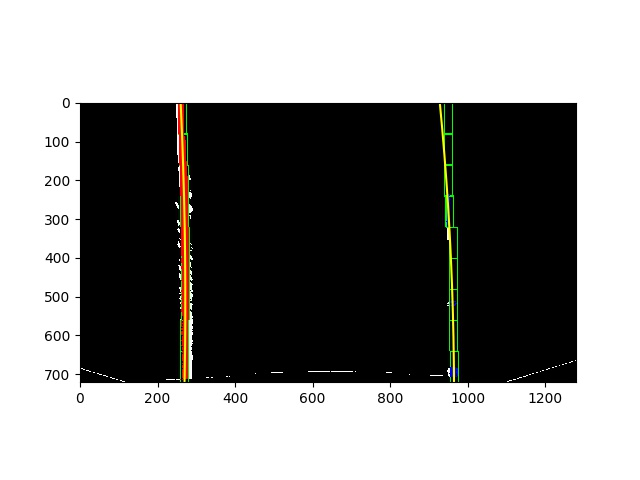
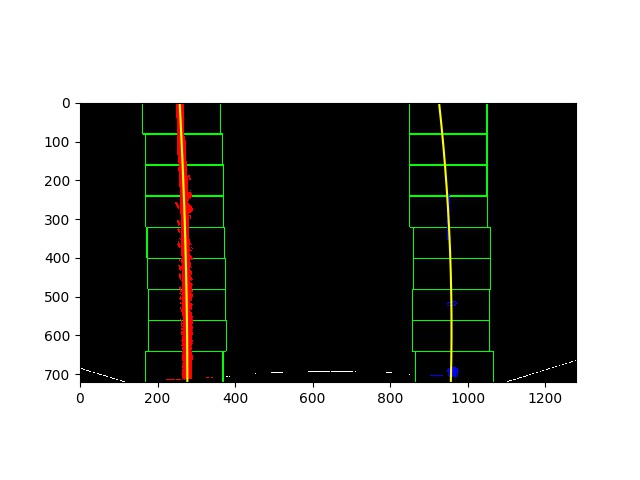
Corrected window margin to 100

Changed region(s): [[0.2188, 0.2188, 0.375, 0.8125], [0.625, 0.2188, 0.7812, 0.8125]]

diff --git a/lanepixelfinding.py b/lanepixelfinding.py
@@ -11,7 +11,7 @@ class Lanepixelfinding(object):
     def __init__(self):
         self.left_fit = self.right_fit = None
 
-    def find_lane_pixels(self, binary_warped, nwindows=9, minpix=50, output_folder=False):
+    def find_lane_pixels(self, binary_warped, margin=100, nwindows=9, minpix=50, output_folder=False):
         plt.imshow(binary_warped)
 
         # Create an output image to draw on and  visualize the result
@@ -25,7 +25,7 @@ class Lanepixelfinding(object):
         nonzerox = np.array(nonzero[1])
 
         left_lane_inds, right_lane_inds = \
-            self.__get_lane_inds(binary_warped, nonzerox, nonzeroy, nwindows, minpix, out_img)
+            self.__get_lane_inds(binary_warped, nonzerox, nonzeroy, margin, nwindows, minpix, out_img)
 
         # Extract left and right line pixel positions
         leftx = nonzerox[left_lane_inds]
@@ -46,27 +46,7 @@ class Lanepixelfinding(object):
 
         return left_fit, right_fit
 
-    def __plot_and_save(self, binary_warped, left_fit, right_fit, out_img, nonzerox, nonzeroy,
-                      left_lane_inds, right_lane_inds, output_folder=None):
-        # Generate x and y values for plotting
-        ploty = np.linspace(0, binary_warped.shape[0]-1, binary_warped.shape[0] )
-        left_fitx = left_fit[0]*ploty**2 + left_fit[1]*ploty + left_fit[2]
-        right_fitx = right_fit[0]*ploty**2 + right_fit[1]*ploty + right_fit[2]
-
-        BLUE = [0, 0, 255]
-        RED = [255, 0, 0]
-        out_img[nonzeroy[left_lane_inds], nonzerox[left_lane_inds]] = RED
-        out_img[nonzeroy[right_lane_inds], nonzerox[right_lane_inds]] = BLUE
-        plt.imshow(out_img)
-        plt.plot(left_fitx, ploty, color='yellow')
-        plt.plot(right_fitx, ploty, color='yellow')
-        plt.xlim(0, 1280)
-        plt.ylim(720, 0)
-        if output_folder is not None:
-            plt.savefig(output_folder + 'lane_detection/sliding_window_result.jpg')
-            plt.imsave(output_folder + 'lane_detection/original_image.jpg', binary_warped, cmap='gray')
-
-    def __get_lane_inds(self, binary_warped, nonzerox, nonzeroy, nwindows, minpix, out_img):
+    def __get_lane_inds(self, binary_warped, nonzerox, nonzeroy, margin, nwindows, minpix, out_img):
         """
         Returns the lane pixels indexes. It uses sliding window method for the first frame, otherwise we use the fit
         calculated from the previous frame
@@ -82,13 +62,12 @@ class Lanepixelfinding(object):
             left_lane_inds = ((nonzerox > (self.left_fit[0]*(nonzeroy**2) + self.left_fit[1]*nonzeroy + self.left_fit[2] - margin)) & (nonzerox < (self.left_fit[0]*(nonzeroy**2) + self.left_fit[1]*nonzeroy + self.left_fit[2] + margin)))
             right_lane_inds = ((nonzerox > (self.right_fit[0]*(nonzeroy**2) + self.right_fit[1]*nonzeroy + self.right_fit[2] - margin)) & (nonzerox < (self.right_fit[0]*(nonzeroy**2) + self.right_fit[1]*nonzeroy + self.right_fit[2] + margin)))
         else:
-            left_lane_inds, right_lane_inds = self.__sliding_window(binary_warped, nonzerox, nonzeroy, nwindows, minpix, out_img)
+            left_lane_inds, right_lane_inds = self.__sliding_window(binary_warped, nonzerox, nonzeroy, margin, nwindows, minpix, out_img)
 
         return left_lane_inds, right_lane_inds
 
-
     @staticmethod
-    def __sliding_window(binary_warped, nonzerox, nonzeroy, nwindows=9, minpix=50, out_img=None):
+    def __sliding_window(binary_warped, nonzerox, nonzeroy, margin=100, nwindows=9, minpix=50, out_img=None):
         # Assuming you have created a warped binary image called "binary_warped"
         # Take a histogram of the bottom half of the image
         histogram = np.sum(binary_warped[binary_warped.shape[0]//2:,:], axis=0)
@@ -139,6 +118,26 @@ class Lanepixelfinding(object):
         right_lane_inds = np.concatenate(right_lane_inds)
 
         return left_lane_inds, right_lane_inds
+
+    def __plot_and_save(self, binary_warped, left_fit, right_fit, out_img, nonzerox, nonzeroy,
+                      left_lane_inds, right_lane_inds, output_folder=None):
+        # Generate x and y values for plotting
+        ploty = np.linspace(0, binary_warped.shape[0]-1, binary_warped.shape[0] )
+        left_fitx = left_fit[0]*ploty**2 + left_fit[1]*ploty + left_fit[2]
+        right_fitx = right_fit[0]*ploty**2 + right_fit[1]*ploty + right_fit[2]
+
+        BLUE = [0, 0, 255]
+        RED = [255, 0, 0]
+        out_img[nonzeroy[left_lane_inds], nonzerox[left_lane_inds]] = RED
+        out_img[nonzeroy[right_lane_inds], nonzerox[right_lane_inds]] = BLUE
+        plt.imshow(out_img)
+        plt.plot(left_fitx, ploty, color='yellow')
+        plt.plot(right_fitx, ploty, color='yellow')
+        plt.xlim(0, 1280)
+        plt.ylim(720, 0)
+        if output_folder is not None:
+            plt.savefig(output_folder + 'lane_detection/sliding_window_result.jpg')
+            plt.imsave(output_folder + 'lane_detection/original_image.jpg', binary_warped, cmap='gray')
 
 if __name__ == "__main__":
     window_width = 20
